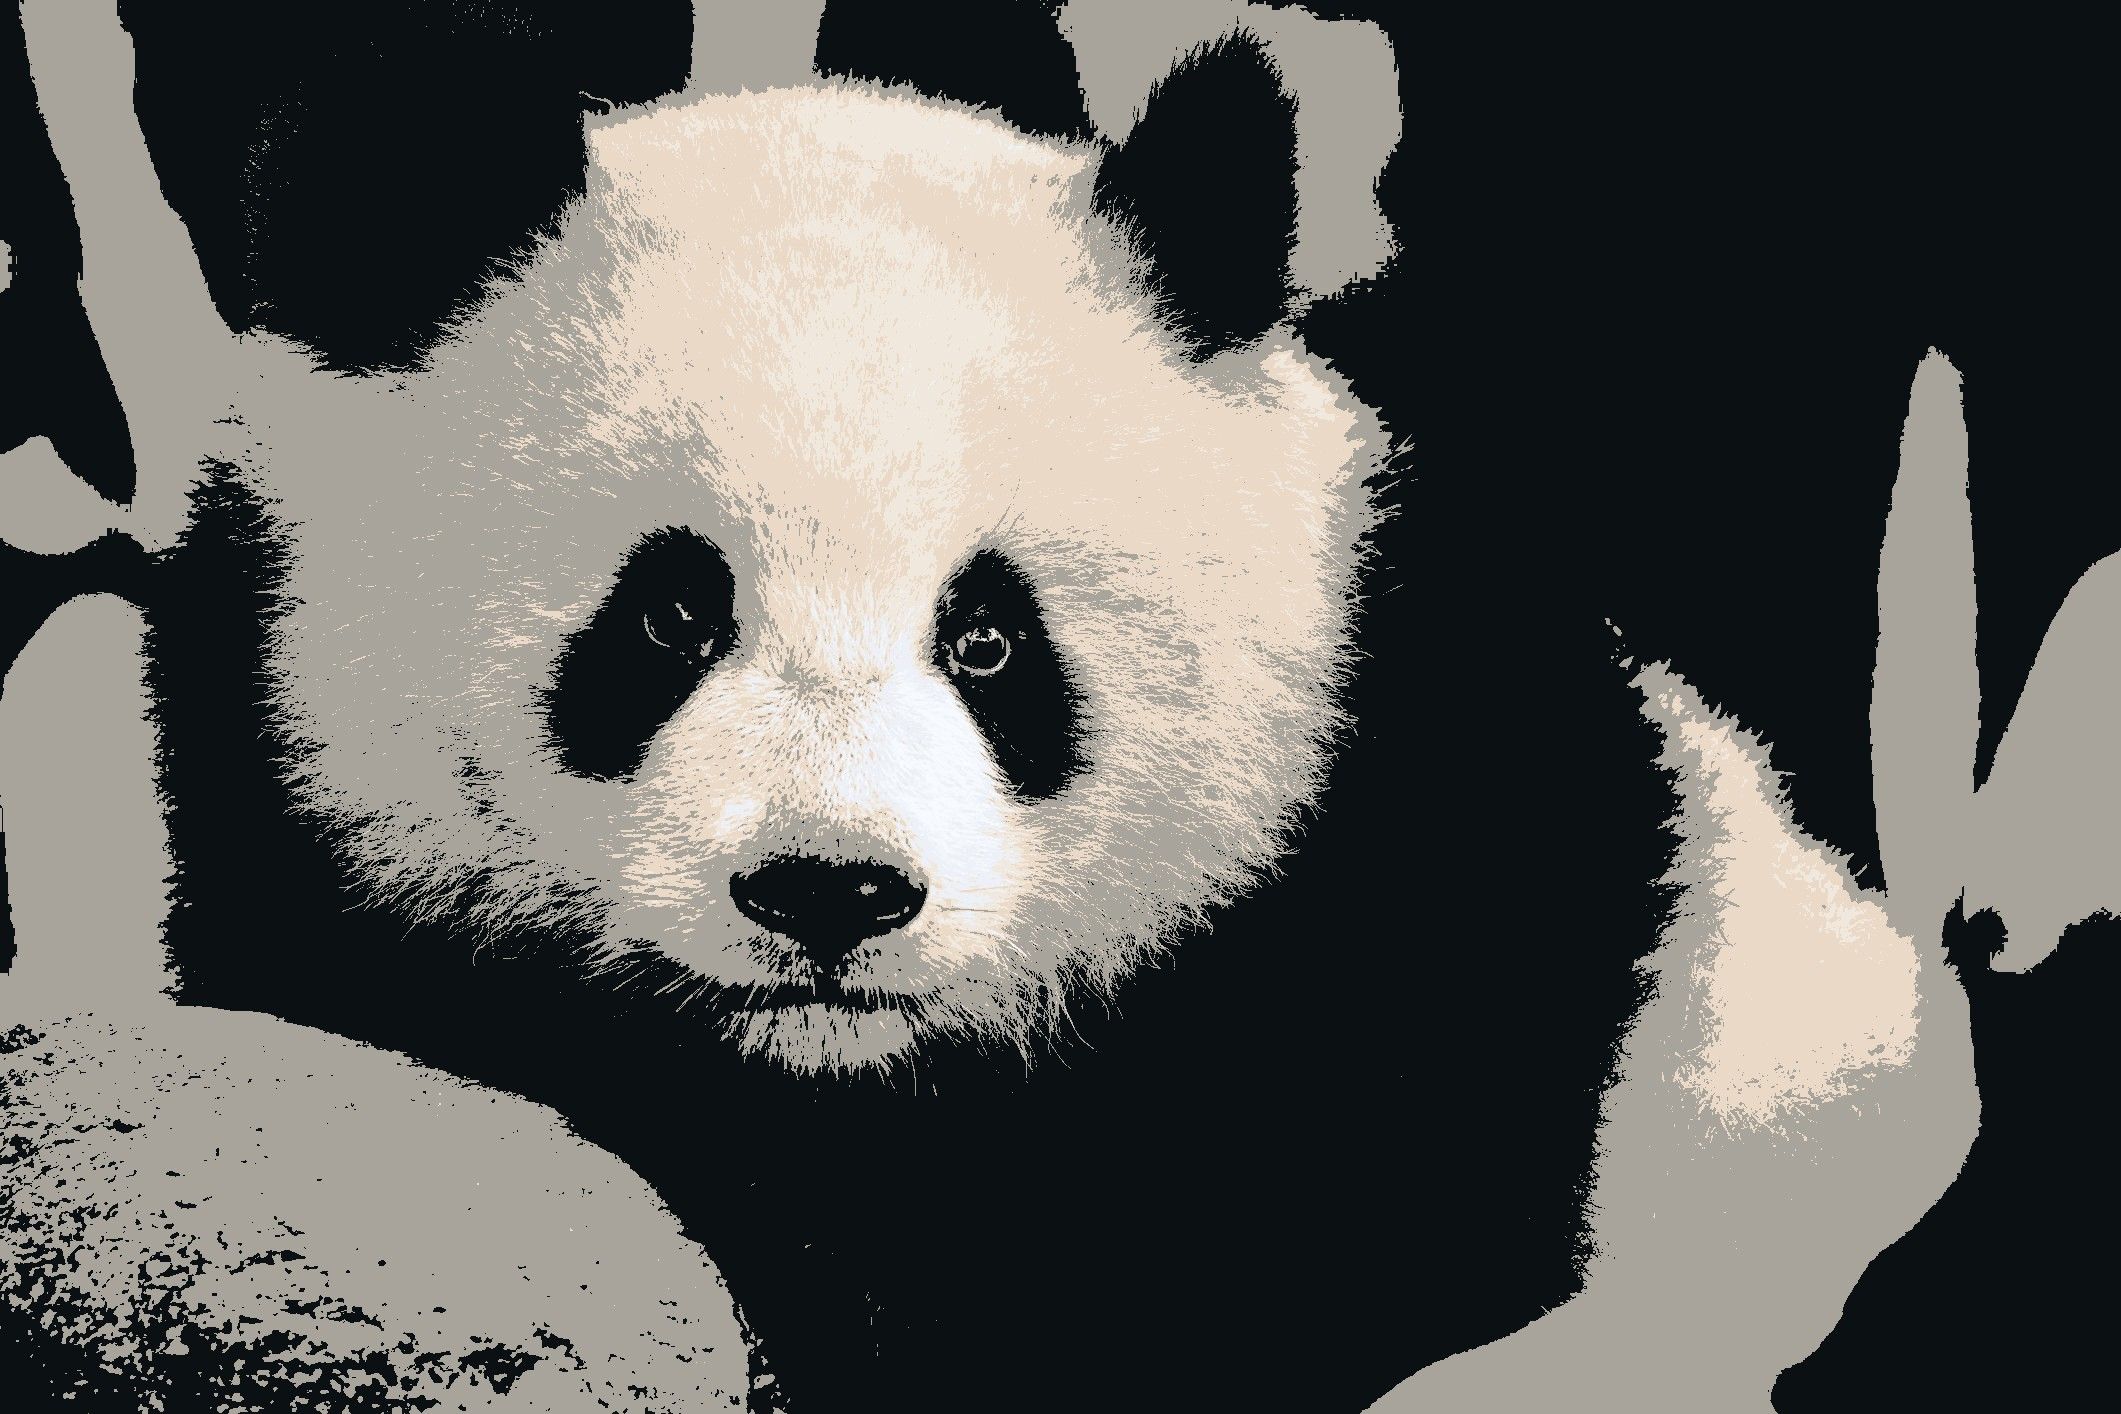
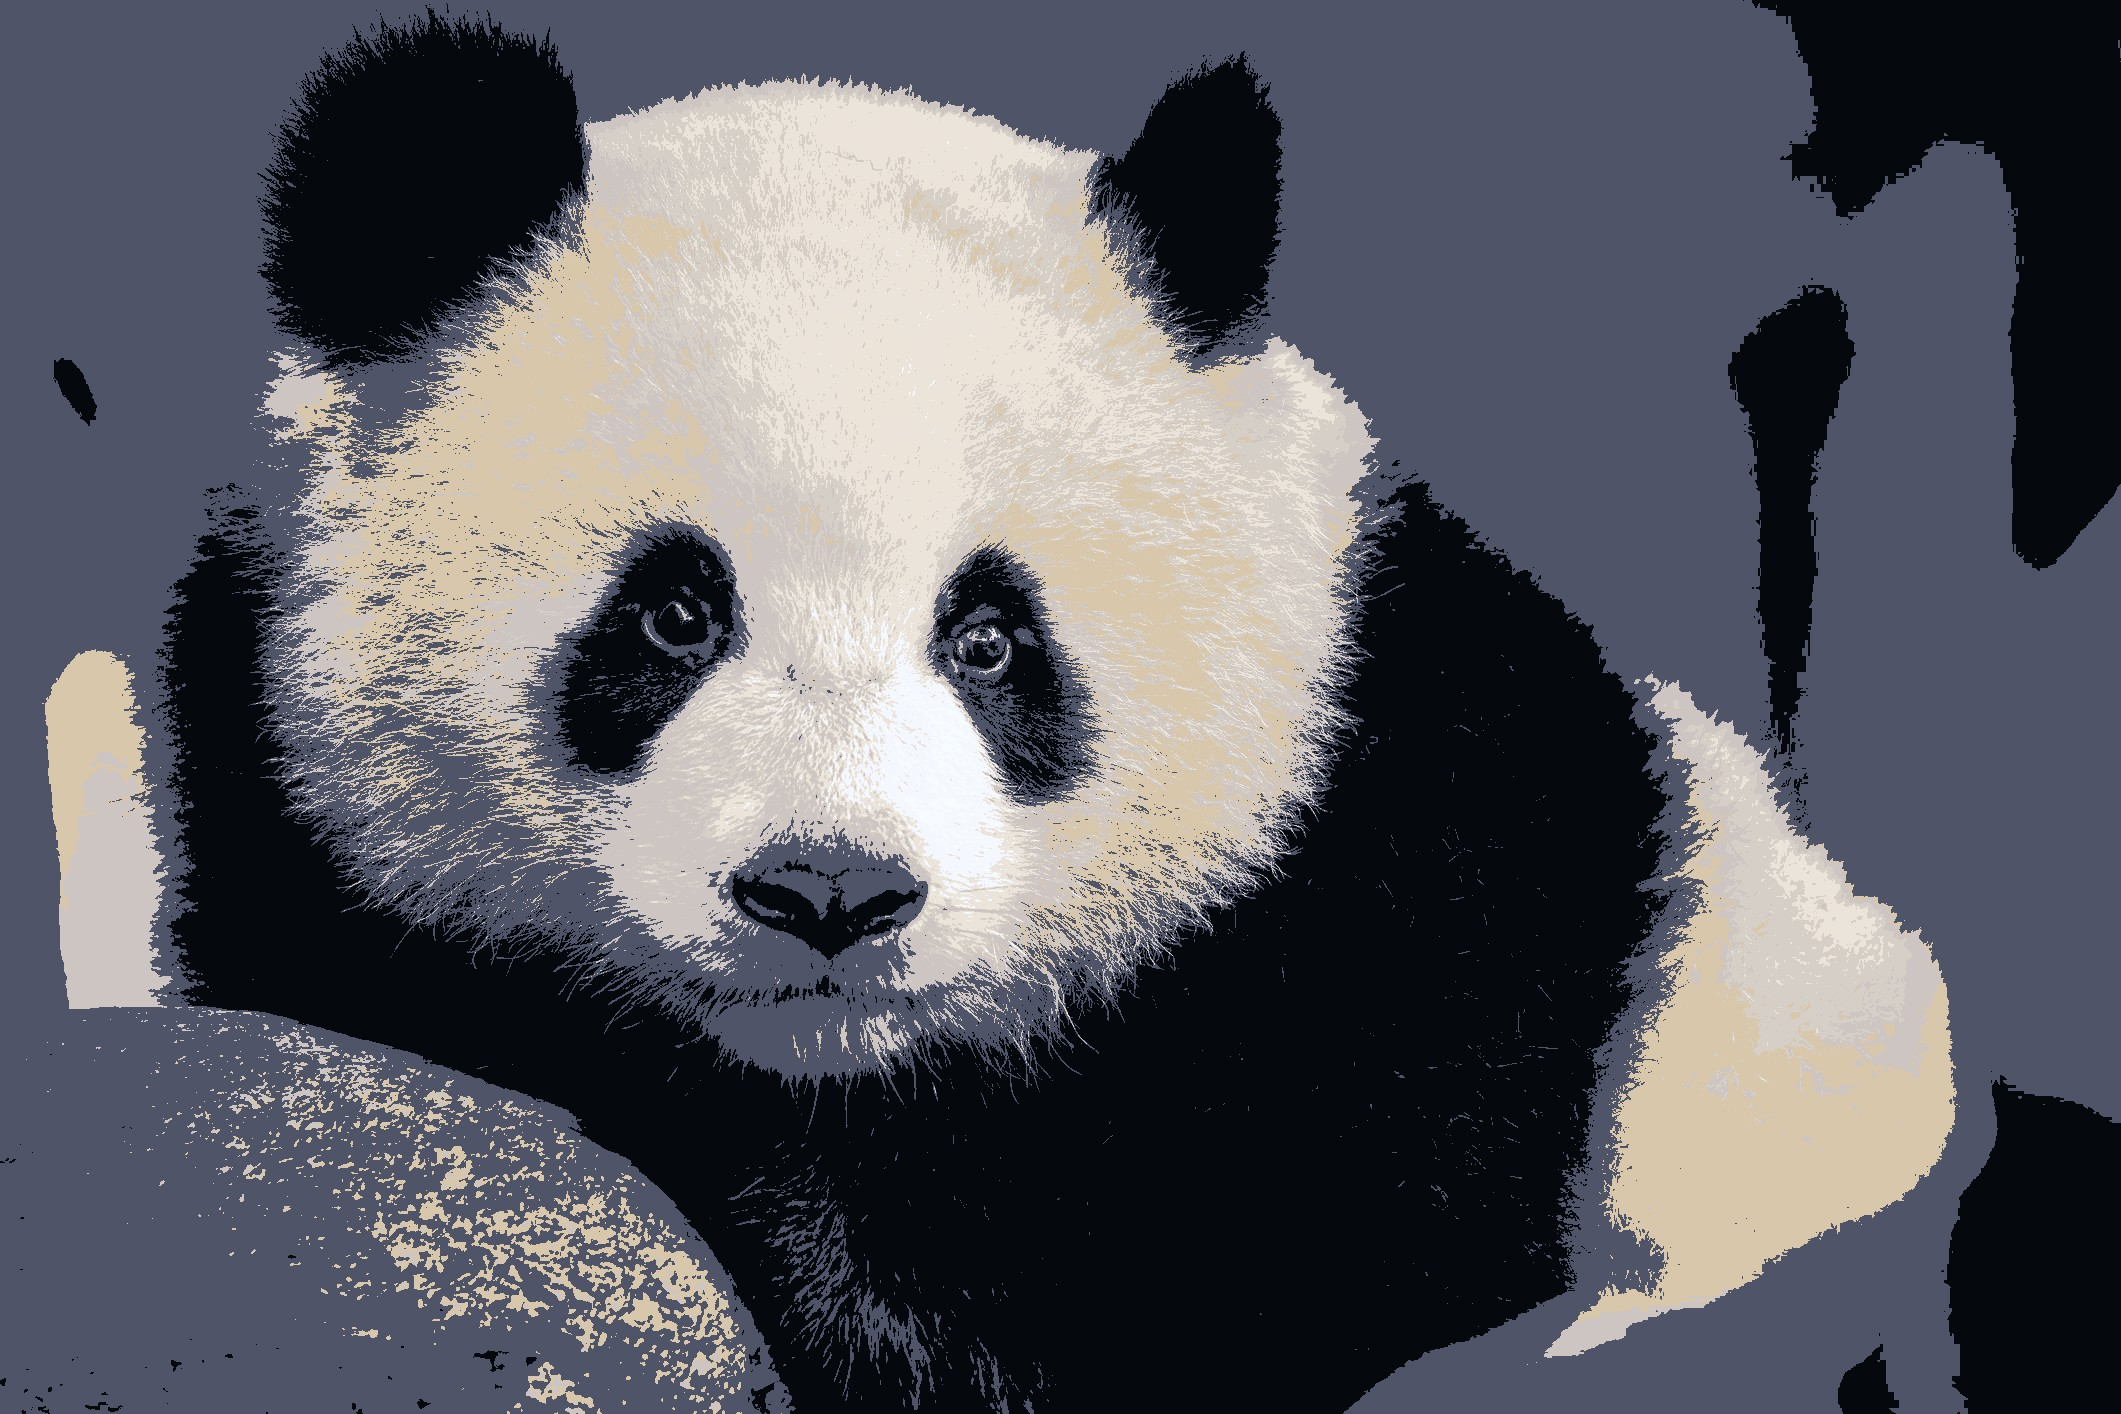
Refactoring

diff --git a/src/main.cpp b/src/main.cpp
@@ -1,19 +1,3 @@
-#if 1
-	#pragma GCC optimize("O3","unroll-loops","omit-frame-pointer","inline") //Optimization flags
-	#pragma GCC option("arch=native","tune=native","no-zero-upper") //Enable AVX
-	#pragma GCC target("avx")
-	#include <x86intrin.h>
-#endif
-
-#include <random>
-#include <iostream>
-
-#include <vector>
-#include <unordered_map>
-
-#include <cstdint>
-#include <stdio.h>
-
 #include <SDL2/SDL.h>
 #include <SDL2/SDL_events.h>
 #include <SDL2/SDL_keycode.h>
@@ -21,40 +5,14 @@
 #include <SDL2/SDL_render.h>
 #include <SDL2/SDL_video.h>
 
+#include "KMeans.h"
 #include "Image.h"
+
+#define STB_IMAGE_IMPLEMENTATION
+#include "../vendor/stb/stb_image.h"
 
 #define STB_IMAGE_WRITE_IMPLEMENTATION
 #include "../vendor/stb/stb_image_write.h"
-
-
-struct Point
-{
-    int x, y;
-    Point(int x, int y)
-    {
-        this->x = x;
-        this->y = y;
-    }
-    
-    bool operator==(const Point &p) const
-    {
-        return x == p.x && y == p.y;
-    }
-};
-
-namespace std {
-  template <>
-  struct hash<Point>
-  {
-    std::size_t operator()(const Point& p) const
-    {
-      using std::size_t;
-      using std::hash;
-      return (hash<int>()(p.x)^ (hash<int>()(p.y)));
-    }
-  };
-}
-
 
 static void UpdateImageTexture(Image& img, SDL_Renderer* renderer, SDL_Texture* texture)
 {
@@ -62,90 +20,6 @@ static void UpdateImageTexture(Image& img, SDL_Renderer* renderer, SDL_Texture* 
 	SDL_RenderClear(renderer);
 	SDL_RenderCopy(renderer, texture, nullptr, nullptr);
 	SDL_RenderPresent(renderer);
-}
-
-int DistanceBetweenTwoPixelsColor(const Pixel& p1, const Pixel& p2)
-{
-    return (p1.r-p2.r)*(p1.r-p2.r) + (p1.g-p2.g)*(p1.g-p2.g) + (p1.b-p2.b)*(p1.b-p2.b);
-}
-
-using ClusterMap = std::unordered_map<Point, std::vector<Point>>;
-
-void CalculateCentroids(const ClusterMap& map, int centroids[][2])
-{
-	int k = 0;
-	for (const auto& cp : map)
-	{
-		int mx = -1, my = -1, n = 0;
-		for (auto p : cp.second)
-		{
-			mx += p.x;
-			my += p.y;
-			n++;
-		}
-		centroids[k][0] = mx / n;
-		centroids[k][1] = my / n;
-		k++;
-	}
-}
-
-void MakeClusters(ClusterMap& map, Image& img, int centroids[][2], int numOfClusters)
-{
-	for (int x = 0; x < img.m_width; x++)
-	{
-		for (int y = 0; y < img.m_height; y++)
-		{
-			Pixel p1 = img.m_pixels[x + img.m_width*y];
-			int i = -1, j = -1;
-			int min_dist = INT_MAX;
-			for (int p = 0; p < numOfClusters; ++p)
-			{
-				auto c = centroids[p];
-				Pixel p2 = img.m_pixels[c[0] + img.m_width*c[1]];
-				int dist = DistanceBetweenTwoPixelsColor(p1, p2);
-
-				if (dist >= min_dist) continue;
-				min_dist = dist;
-				i = c[0];
-				j = c[1];
-			}
-			map[{i,j}].emplace_back(x, y);
-		}
-	}
-}
-
-void KMeans(Image& img, int numOfClusters, int maxIter)
-{
-    std::random_device dev;
-    std::mt19937 rng(dev());
-    std::uniform_int_distribution<int> w(0, img.m_width - 1);
-    std::uniform_int_distribution<int> h(0, img.m_height - 1);
-    
-    int centroids[numOfClusters][2];
-    for (int i = 0; i < numOfClusters; i++)
-    {
-	    centroids[i][0] = w(rng);
-	    centroids[i][1] = h(rng);
-    }
-
-	ClusterMap map;
-	for (int k = 0; k < maxIter; k++)
-	{
-		MakeClusters(map, img, centroids, numOfClusters);
-		CalculateCentroids(map, centroids);
-        if (k < maxIter - 1)
-        {
-            map.clear();
-        }
-    }
-    
-    for (const auto& cp : map)
-    {
-        for (auto p : cp.second)
-        {
-            img.m_pixels[p.x + img.m_width*p.y] = img.m_pixels[cp.first.x + img.m_width*cp.first.y];
-        }
-    }
 }
 
 int main()
@@ -167,7 +41,6 @@ int main()
     SDL_Event event;
     bool done = false;
     
-    int numOfClusters = 10, maxIterations = 50;
     while (SDL_PollEvent(&event) || !done)
     {
         switch (event.type)
@@ -178,8 +51,11 @@ int main()
                 if (event.key.keysym.sym == SDLK_g)
 	                img.MakeGray();
                 if (event.key.keysym.sym == SDLK_s)
-	                KMeans(img, numOfClusters, maxIterations);
-            break;                
+                {
+	                KMeans kmeans(img);
+					kmeans.Partition();
+				}
+            break;
             case SDL_QUIT:
                 done = true;
             break;
@@ -198,3 +74,4 @@ int main()
 	img.ClearPixels();
     return 0;
 }
+

diff --git a/src/KMeans.cpp b/src/KMeans.cpp
@@ -1,0 +1,98 @@
+#pragma GCC optimize("O3","unroll-loops","omit-frame-pointer","inline") //Optimization flags
+#pragma GCC option("arch=native","tune=native","no-zero-upper") //Enable AVX
+#pragma GCC target("avx")
+
+#include "KMeans.h"
+
+#include <random>
+#include <limits.h>
+#include <algorithm>
+#include <execution>
+
+KMeans::KMeans(Image& img) : m_image(img)
+{
+	Init();
+}
+
+KMeans::KMeans(Image& img, int maxIter) : m_image(img), m_maxIterations(maxIter)
+{
+	Init();
+}
+
+void KMeans::Partition()
+{
+	for (int k = 0; k < m_maxIterations; k++)
+	{
+		MakeClusters();
+		CalculateCentroids();
+		if (k < m_maxIterations - 1)
+		{
+			m_clusterMap.clear();
+		}
+	}
+
+	std::for_each(std::execution::par, m_clusterMap.begin(), m_clusterMap.end(), [this, p](const auto& cp){
+		for (auto p : cp.second)
+		{
+			m_image.m_pixels[p.x + m_image.m_width*p.y] = m_image.m_pixels[cp.first.x + m_image.m_width*cp.first.y];
+		}
+	});
+}
+
+void KMeans::Init()
+{
+	std::random_device dev;
+	std::mt19937 rng(dev());
+	std::uniform_int_distribution<int> w(0, m_image.m_width - 1);
+	std::uniform_int_distribution<int> h(0, m_image.m_height - 1);
+
+	for (int i = 0; i < m_numOfClusters; i++)
+	{
+		m_centroids[i][0] = w(rng);
+		m_centroids[i][1] = h(rng);
+	}
+}
+
+void KMeans::MakeClusters()
+{
+	for (int x = 0; x < m_image.m_width; x++)
+	{
+		for (int y = 0; y < m_image.m_height; y++)
+		{
+			Pixel p1 = m_image.m_pixels[x + m_image.m_width*y];
+			int i = -1, j = -1;
+			int min_dist = INT_MAX;
+			for (int p = 0; p < m_numOfClusters; ++p)
+			{
+				auto c = m_centroids[p];
+				Pixel p2 = m_image.m_pixels[c[0] + m_image.m_width*c[1]];
+				int dist = DistanceBetweenTwoPixelsColor(p1, p2);
+
+				if (dist >= min_dist) continue;
+				min_dist = dist;
+				i = c[0];
+				j = c[1];
+			}
+			m_clusterMap[{i,j}].emplace_back(x, y);
+		}
+	}
+}
+
+void KMeans::CalculateCentroids()
+{
+	int k = 0;
+	for (const auto& cp : m_clusterMap)
+	{
+		int mx = -1, my = -1, n = 0;
+		for (auto p : cp.second)
+		{
+			mx += p.x;
+			my += p.y;
+			n++;
+		}
+		m_centroids[k][0] = mx / n;
+		m_centroids[k][1] = my / n;
+		k++;
+	}
+}
+

diff --git a/src/KMeans.h b/src/KMeans.h
@@ -1,0 +1,66 @@
+#pragma once
+
+#include <vector>
+#include <unordered_map>
+
+#include "Image.h"
+
+struct Point
+{
+	int x, y;
+	Point(int x, int y)
+	{
+		this->x = x;
+		this->y = y;
+	}
+
+	bool operator==(const Point &p) const
+	{
+		return x == p.x && y == p.y;
+	}
+};
+
+namespace std {
+	template <>
+	struct hash<Point>
+	{
+		std::size_t operator()(const Point& p) const
+		{
+			using std::size_t;
+			using std::hash;
+			return (hash<int>()(p.x)^ (hash<int>()(p.y)));
+		}
+	};
+}
+
+static int DistanceBetweenTwoPixelsColor(const Pixel& p1, const Pixel& p2)
+{
+	return (p1.r-p2.r)*(p1.r-p2.r) + (p1.g-p2.g)*(p1.g-p2.g) + (p1.b-p2.b)*(p1.b-p2.b);
+}
+
+
+class KMeans
+{
+public:
+	explicit KMeans(Image& img);
+	KMeans(Image& img, int maxIter);
+
+	void Partition();
+
+private:
+	void Init();
+
+	void MakeClusters();
+	void CalculateCentroids();
+private:
+	Image& m_image;
+
+	static const int m_numOfClusters = 10;
+	int m_maxIterations = 50;
+
+	using ClusterMap = std::unordered_map<Point, std::vector<Point>>;
+
+	ClusterMap m_clusterMap;
+	int m_centroids[m_numOfClusters][2];
+};
+

diff --git a/src/Image.h b/src/Image.h
@@ -1,7 +1,8 @@
 #pragma once
 
-#define STB_IMAGE_IMPLEMENTATION
 #include "../vendor/stb/stb_image.h"
+
+#include <cstdint>
 
 struct __attribute__ ((packed)) Pixel {
 	uint8_t r, g, b;
@@ -52,3 +53,4 @@ struct Image
 		delete[] m_pixels;
 	}
 };
+

diff --git a/readme.md b/readme.md
@@ -5,5 +5,9 @@ Modify the image with k-means algorithm.
 ### Before
 ![fox](assets/fox.jpg)
 
+![panda](assets/panda.jpg)
+
 ### After
 ![fox_after](assets/fox_after.jpg)
+
+![panda_after](assets/panda_after.jpg)
